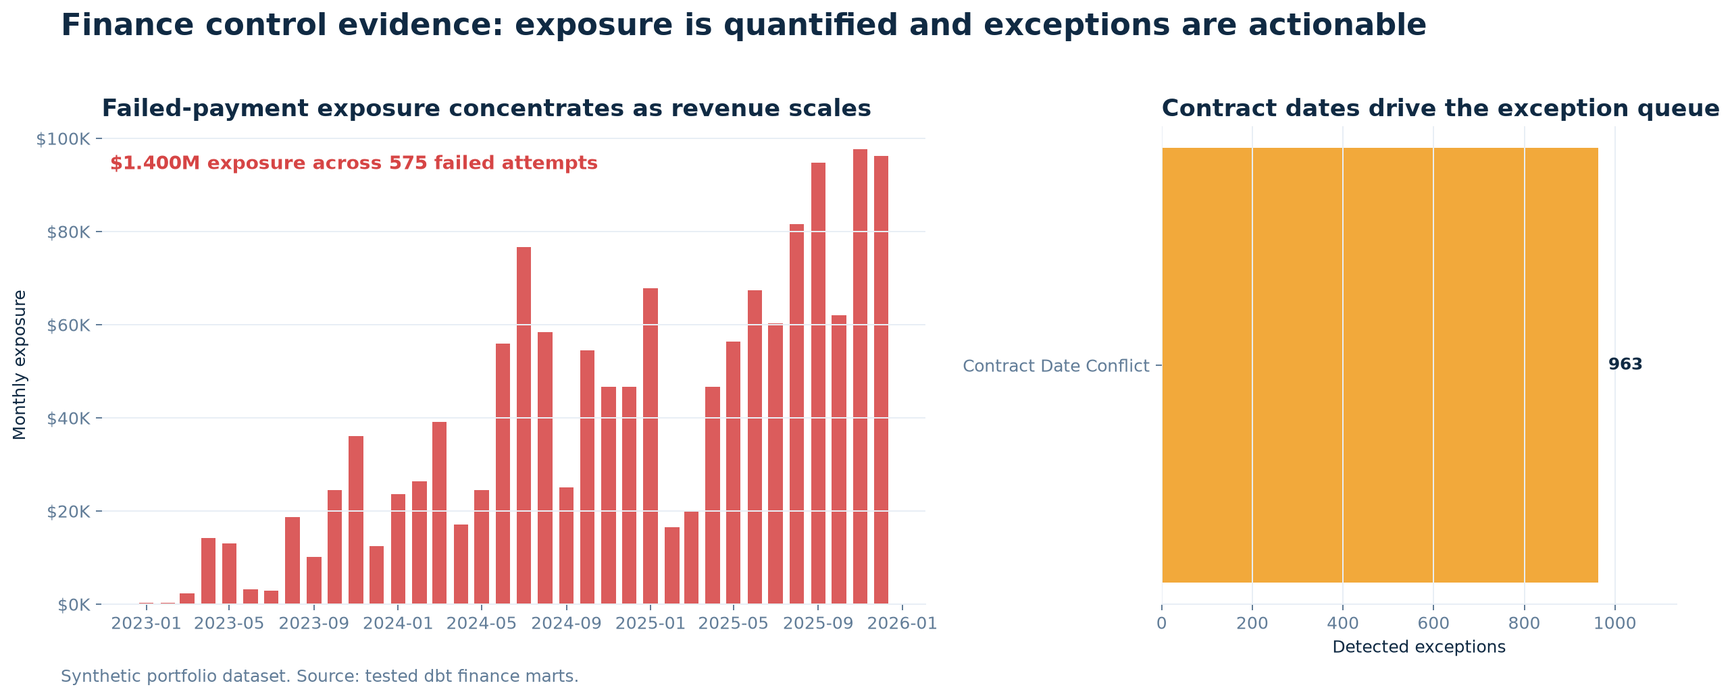
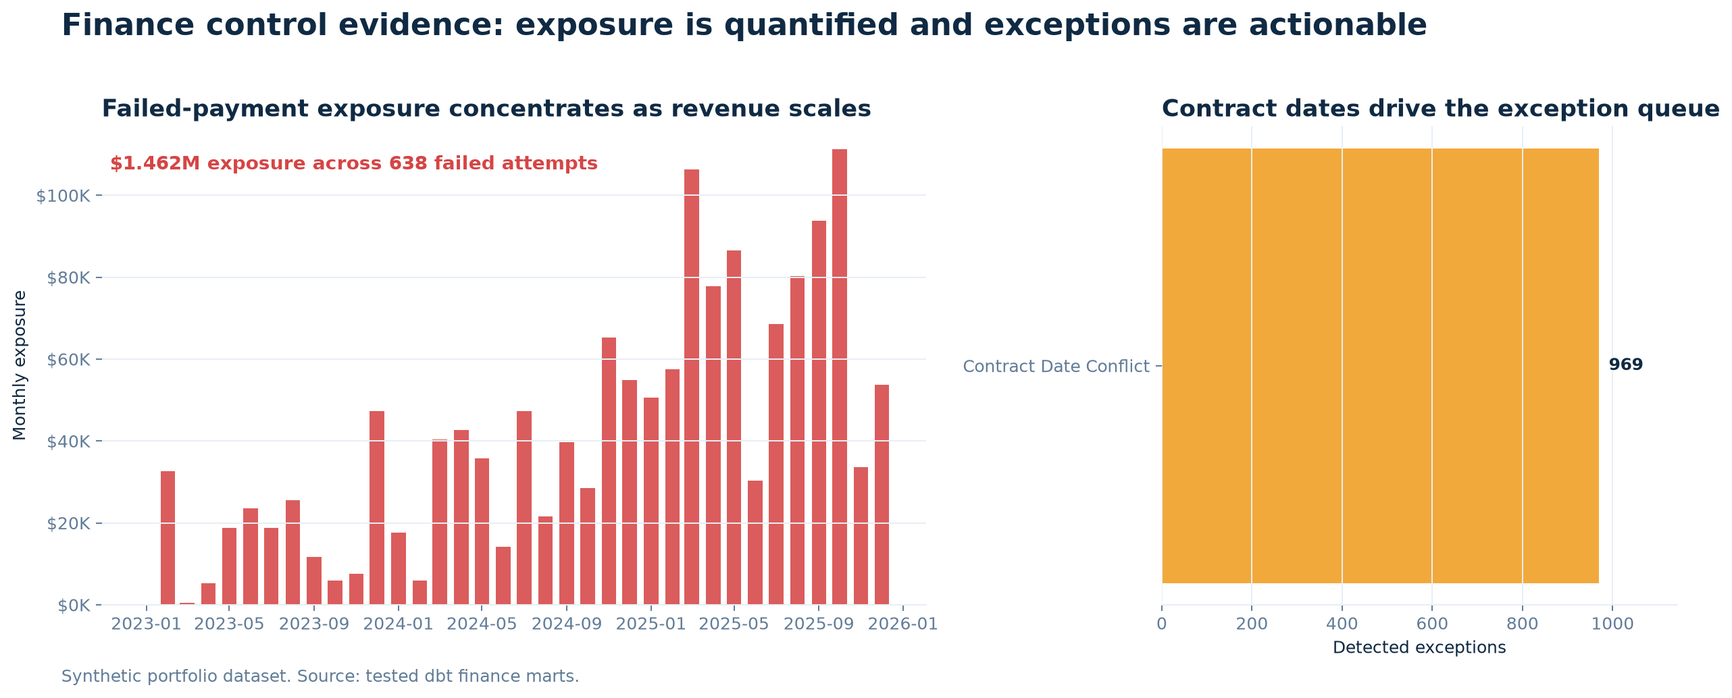
Remove synthetic outcome leakage

diff --git a/src/generation/generate.py b/src/generation/generate.py
@@ -105,6 +105,12 @@ def generate(config_path: Path, output: Path) -> dict[str, int]:
         [],
         [],
     )
+    # Ex-ante latent account characteristics are shared causes of observed behavior
+    # and later cancellation. Predictors never read the realized churn outcome.
+    risk_rng = np.random.default_rng(int(cfg["seed"]) + 17)
+    account_friction = risk_rng.normal(0, 1, n)
+    account_engagement = risk_rng.normal(0, 1, n)
+    account_payment_risk = risk_rng.normal(0, 1, n)
     usage_profiles = []
     for i, acc in accounts.iterrows():
         aid = acc.account_id
@@ -116,7 +122,20 @@ def generate(config_path: Path, output: Path) -> dict[str, int]:
         trial_start = pd.Timestamp(acc.created_date)
         converted = rng.random() > 0.16
         start_date = trial_start + pd.offsets.Day(14)
-        churn_prob = 0.24 if acc.segment == "SMB" else 0.14 if acc.segment == "Mid-Market" else 0.09
+        base_logit = (
+            -1.15
+            if acc.segment == "SMB"
+            else -1.75
+            if acc.segment == "Mid-Market"
+            else -2.20
+        )
+        churn_logit = (
+            base_logit
+            + 0.80 * account_friction[i]
+            - 0.70 * account_engagement[i]
+            + 0.55 * account_payment_risk[i]
+        )
+        churn_prob = float(1 / (1 + np.exp(-churn_logit)))
         churned = converted and rng.random() < churn_prob
         max_end = min(end, start_date + pd.DateOffset(months=int(rng.integers(5, 33))))
         if max_end < start_date:
@@ -357,13 +376,8 @@ def generate(config_path: Path, output: Path) -> dict[str, int]:
     )
 
     snapshot_rows = []
-    # Churn features are noisy observations of an unobserved account state. They are
-    # intentionally not generated from the future label. This prevents the near
-    # deterministic target encoding that made the original synthetic model trivial.
-    eventual_churn = subscriptions.status.eq("canceled").to_numpy(dtype=float)
-    account_friction = rng.normal(0, 1, n) + 0.65 * eventual_churn
-    account_engagement = rng.normal(0, 1, n) - 0.50 * eventual_churn
-    account_payment_risk = rng.normal(0, 1, n) + 0.45 * eventual_churn
+    # Churn features are noisy observations of the ex-ante latent account state.
+    churn_rng = np.random.default_rng(int(cfg["seed"]) + 29)
     split_months = pd.date_range("2023-03-31", "2025-09-30", freq="3ME")
     for i, sub in subscriptions.iterrows():
         account = accounts.iloc[i]
@@ -376,32 +390,42 @@ def generate(config_path: Path, output: Path) -> dict[str, int]:
                 and snapshot < churn_date
                 and churn_date <= snapshot + pd.offsets.Day(90)
             )
-            days_to_churn = (churn_date - snapshot).days if pd.notna(churn_date) else 9999
-            # Operational signals arrive late and strengthen only near an observed
-            # cancellation. A 2025 product change creates a future condition that
-            # weakens the historical usage and adoption relationships.
-            warning = max(0.0, 1.0 - days_to_churn / 75.0) if 0 < days_to_churn <= 120 else 0.0
+            # Snapshot-local operational pressure is generated from the ex-ante
+            # account state plus fresh noise. It never reads cancellation timing.
             future_regime = snapshot >= pd.Timestamp("2025-01-01")
             signal_strength = 0.80 if future_regime else 1.0
             friction = account_friction[i]
             engagement = account_engagement[i]
             payment_risk = account_payment_risk[i]
+            operational_pressure = max(
+                0.0,
+                0.35 * friction - 0.25 * engagement + churn_rng.normal(0, 0.40),
+            )
             observed_label = true_future_churn
             # Labels reflect delayed CRM updates and occasional unrecorded churn.
-            if observed_label and rng.random() < (0.14 if future_regime else 0.09):
+            if observed_label and churn_rng.random() < (0.14 if future_regime else 0.09):
                 observed_label = 0
-            elif not observed_label and rng.random() < (0.002 if future_regime else 0.001):
+            elif not observed_label and churn_rng.random() < (
+                0.002 if future_regime else 0.001
+            ):
                 observed_label = 1
-            usage_change = rng.normal(
-                -0.025 - 0.07 * engagement - 0.78 * warning * signal_strength,
+            usage_change = churn_rng.normal(
+                -0.025
+                - 0.15 * engagement
+                - 0.25 * operational_pressure * signal_strength,
                 0.30 + 0.05 * future_regime,
             )
             adoption = np.clip(
-                rng.beta(3, 2) + 0.055 * engagement - 0.43 * warning * signal_strength,
+                churn_rng.beta(3, 2)
+                + 0.12 * engagement
+                - 0.15 * operational_pressure * signal_strength,
                 0,
                 1,
             )
-            recency = rng.gamma(2.0, max(2.0, 6.0 + 1.4 * friction + 6.0 * warning))
+            recency = churn_rng.gamma(
+                2.0,
+                max(2.0, 6.0 + 2.5 * friction + 2.0 * operational_pressure),
+            )
             snapshot_rows.append(
                 {
                     "account_id": sub.account_id,
@@ -409,14 +433,18 @@ def generate(config_path: Path, output: Path) -> dict[str, int]:
                     "usage_change_30d": round(float(usage_change), 4),
                     "feature_adoption_rate": round(float(adoption), 4),
                     "support_tickets_90d": int(
-                        rng.poisson(max(0.1, 1.5 + 0.35 * friction + 2.0 * warning))
+                        churn_rng.poisson(
+                            max(0.1, 1.5 + 0.60 * friction + 0.9 * operational_pressure)
+                        )
                     ),
                     "failed_payments_90d": int(
-                        rng.binomial(
+                        churn_rng.binomial(
                             2,
                             float(
                                 np.clip(
-                                    0.045 + 0.025 * payment_risk + 0.23 * warning,
+                                    0.045
+                                    + 0.055 * payment_risk
+                                    + 0.07 * operational_pressure,
                                     0.005,
                                     0.35,
                                 )
@@ -432,7 +460,9 @@ def generate(config_path: Path, output: Path) -> dict[str, int]:
                     "seats": sub.seats,
                     "engagement_recency_days": round(float(recency), 2),
                     "prior_downgrades": int(
-                        rng.binomial(2, float(np.clip(0.07 + 0.035 * friction, 0.01, 0.25)))
+                        churn_rng.binomial(
+                            2, float(np.clip(0.07 + 0.035 * friction, 0.01, 0.25))
+                        )
                     ),
                     "mrr": sub.initial_mrr,
                     "plan_type": sub.contract_type,
@@ -452,7 +482,9 @@ def generate(config_path: Path, output: Path) -> dict[str, int]:
     ]
     for column in delayed_columns:
         missing_rate = 0.06 if column != "failed_payments_90d" else 0.035
-        churn_snapshots.loc[rng.random(len(churn_snapshots)) < missing_rate, column] = np.nan
+        churn_snapshots.loc[
+            churn_rng.random(len(churn_snapshots)) < missing_rate, column
+        ] = np.nan
 
     tables = {
         "dim_geography": geo,

diff --git a/src/analytics/export_survival_input.py b/src/analytics/export_survival_input.py
@@ -8,19 +8,31 @@ from pathlib import Path
 import duckdb
 
 QUERY = """
-with payment_flags as (
-  select i.account_id, max(case when p.status = 'failed' then 1 else 0 end) failed_payment
-  from raw.fact_invoices i
+with spells as (
+  select *, coalesce(cast(end_date as date), date '2025-12-31') spell_end
+  from raw.fact_subscriptions
+  where start_date is not null
+), payment_flags as (
+  select s.account_id, max(case when p.status = 'failed' then 1 else 0 end) failed_payment
+  from spells s
+  join raw.fact_invoices i on i.account_id = s.account_id
   join raw.fact_payments p using(invoice_id)
-  group by 1
+  where cast(i.invoice_date as date) <= s.spell_end
+  group by s.account_id
 ), support_flags as (
-  select account_id, max(case when escalated then 1 else 0 end) support_escalation
-  from raw.fact_support_tickets group by 1
+  select s.account_id, max(case when t.escalated then 1 else 0 end) support_escalation
+  from spells s
+  join raw.fact_support_tickets t on t.account_id = s.account_id
+  where cast(t.created_at as date) <= s.spell_end
+  group by s.account_id
 ), health_flags as (
-  select account_id,
-         max(case when feature_adoption_rate < 0.40 or days_since_last_activity > 30
+  select s.account_id,
+         max(case when h.feature_adoption_rate < 0.40 or h.days_since_last_activity > 30
                   then 1 else 0 end) usage_decline
-  from raw.fact_customer_health group by 1
+  from spells s
+  join raw.fact_customer_health h on h.account_id = s.account_id
+  where cast(h.snapshot_date as date) <= s.spell_end
+  group by s.account_id
 )
 select s.account_id,
        greatest(1, date_diff('month', cast(s.start_date as date),
@@ -30,11 +42,10 @@ select s.account_id,
        coalesce(h.usage_decline, 0) usage_decline,
        coalesce(p.failed_payment, 0) failed_payment,
        coalesce(t.support_escalation, 0) support_escalation
-from raw.fact_subscriptions s
+from spells s
 left join health_flags h using(account_id)
 left join payment_flags p using(account_id)
 left join support_flags t using(account_id)
-where s.start_date is not null
 order by s.account_id
 """
 

diff --git a/README.md b/README.md
@@ -31,17 +31,17 @@ flowchart LR
 
 | Verified result | Evidence |
 |---|---:|
-| Source and modeling records | **695,036** |
+| Source and modeling records | **693,805** |
 | Product-usage events | **600,000** |
 | Customer accounts | **1,200** |
-| December 2025 MRR | **$2.282M** |
-| December 2025 ARR | **$27.387M** |
+| December 2025 MRR | **$1.915M** |
+| December 2025 ARR | **$22.977M** |
 | Maximum MRR bridge variance | **$0.00** |
-| Failed-payment exposure | **$1.400M across 575 attempts** |
-| Finance exceptions detected | **963 contract-date conflicts** |
+| Failed-payment exposure | **$1.462M across 638 attempts** |
+| Finance exceptions detected | **969 contract-date conflicts** |
 | dbt validation | **36 models, 71 tests, 104/104 resources passed** |
 | Source contracts | **23/23 tables passed** |
-| Churn baseline, future holdout | **0.710 ROC-AUC, 0.058 PR-AUC** |
+| Churn baseline, future holdout | **0.633 ROC-AUC, 0.031 PR-AUC** |
 
 ![Verified revenue trend and December MRR movement bridge](assets/readme/revenue_movement.png)
 
@@ -69,15 +69,15 @@ make pipeline
 
 ## The business story
 
-The fictional company grows MRR steadily through most of the 36-month observation window. In December 2025, $189K of churned MRR overwhelms $45K of new MRR and $27K of expansion, producing negative $124K net new MRR. The movement model reconciles opening MRR to closing MRR with no unexplained variance.
+The fictional company grows MRR steadily through most of the 36-month observation window. In December 2025, $335K of churned MRR overwhelms $61K of new MRR and $17K of expansion, producing negative $260K net new MRR. The movement model reconciles opening MRR to closing MRR with no unexplained variance.
 
 This changes the executive question from “Did revenue decline?” to “Which customer segments, product relationships, and operational failures created the decline, and which teams own the response?”
 
-The finance control layer then separates commercial performance from collection and data-quality problems. It quantifies $1.400M of failed-payment exposure and places 963 contract-date conflicts into an exception queue with invoice-level traceability.
+The finance control layer then separates commercial performance from collection and data-quality problems. It quantifies $1.462M of failed-payment exposure and places 969 contract-date conflicts into an exception queue with invoice-level traceability.
 
 ![Failed-payment exposure and finance exception evidence](assets/readme/finance_controls.png)
 
-The predictive layer uses time-aware train, calibration, and future-test periods. The generator now includes latent account variation, weaker individual predictors, missing and delayed observations, temporal drift, and label noise. The calibrated logistic baseline reaches 0.710 ROC-AUC on an unseen future period. That credible result is more useful for error analysis than the earlier near-perfect synthetic score. Rolling forecast backtests show that total MRR and cash are comparatively stable, while churned MRR is highly intermittent and harder to forecast.
+The predictive layer uses time-aware train, calibration, and future-test periods. Ex-ante latent account characteristics generate both noisy observed behavior and later cancellation; predictors never read the realized outcome or cancellation timing. Missing and delayed observations, temporal drift, and label noise further weaken the signal. The calibrated logistic baseline reaches 0.633 ROC-AUC on an unseen future period. Rolling forecast backtests show that total MRR and cash are comparatively stable, while churned MRR is highly intermittent and harder to forecast.
 
 ![Churn validation and rolling forecast backtests](assets/readme/model_validation.png)
 
@@ -113,9 +113,9 @@ This repository contains executable evidence for the critical business logic:
 | Failed-payment exposure | [`assert_failed_payment_exposure_quantified.sql`](dbt/tests/assert_failed_payment_exposure_quantified.sql) | Nonzero exposure required when failed attempts exist |
 | Leakage-safe churn modeling | [`src/modeling/churn.py`](src/modeling/churn.py) | Time splits, calibration, lift, Brier score, and threshold economics |
 | Rolling forecast backtests | [`src/modeling/forecast.py`](src/modeling/forecast.py) | Naive, seasonal-naive, and drift candidates compared |
-| Distributed-event path | [`spark/process_usage_events.py`](spark/process_usage_events.py) | 600,000 events processed in 6.807 seconds into 36 partitions |
+| Distributed-event path | [`spark/process_usage_events.py`](spark/process_usage_events.py) | 600,000 events processed in 5.984 seconds into 36 partitions |
 | Hive compatibility | [`spark/validate_hive_table.py`](spark/validate_hive_table.py) | DDL loaded in Spark Hive support; 600,000 events reconciled |
-| R survival analysis | [`r/survival_analysis.R`](r/survival_analysis.R) | 997 spells, 173 events; Kaplan-Meier output matches Python within 5.56e-16 |
+| R survival analysis | [`r/survival_analysis.R`](r/survival_analysis.R) | 1,004 spells, 248 events; Kaplan-Meier output matches Python within 4.45e-16 |
 | Orchestration | [`airflow/dags/subscription_intelligence.py`](airflow/dags/subscription_intelligence.py) | Local Airflow 2.11.2 DAG test completed successfully |
 | BI semantic design | [`powerbi/semantic_model.md`](powerbi/semantic_model.md) | 39 explicit DAX measures and QA checklist |
 | README evidence charts | [`scripts/generate_readme_visuals.py`](scripts/generate_readme_visuals.py) | Regenerated from tested exports and model artifacts |
@@ -245,16 +245,16 @@ make airflow-test
 | MRR bridge | **$0.00 maximum variance** |
 | Source contracts | **23/23 source tables passed** |
 | Git whitespace and repository hygiene | **Passed** |
-| Spark runtime | **600,000 events processed in 6.807 seconds on local[*]** |
+| Spark runtime | **600,000 events processed in 5.984 seconds on local[*]** |
 | Hive-compatible DDL | **36 partitions and 600,000 events reconciled** |
-| R runtime | **997 spells and 173 churn events; cross-check passed** |
+| R runtime | **1,004 spells and 248 churn events; cross-check passed** |
 | Airflow runtime | **DAG test completed successfully in Airflow 2.11.2** |
 | Native Power BI QA | Requires Power BI Desktop |
 
 ## Recommendations from the synthetic evidence
 
-1. Correct contract lifecycle rules behind the 963 date conflicts before relying on renewal and recognition reporting.
-2. Operationalize failed-payment recovery for the 575 attempts representing $1.400M of exposure.
+1. Correct contract lifecycle rules behind the 969 date conflicts before relying on renewal and recognition reporting.
+2. Operationalize failed-payment recovery for the 638 attempts representing $1.462M of exposure.
 3. Pilot a constrained retention queue using the cost-selected logistic threshold, then measure incremental renewal through a controlled experiment.
 4. Investigate the December churn cohort by segment, plan, acquisition channel, support burden, and adoption decline.
 5. Require executive metrics to pass the dbt reconciliation layer before Power BI refresh.

diff --git a/reports/technical_report.md b/reports/technical_report.md
@@ -8,12 +8,12 @@ Python generates and validates deterministic source records. DuckDB provides the
 
 | Evidence | Value |
 |---|---|
-| Git state | Initial repository, uncommitted implementation |
+| Git state | Working tree at verification; the resulting commit is recorded in public repository history |
[1 lines of base64/hex data omitted]
 | Observation window | 2023-01-01 through 2025-12-31 |
 | Runtime | Python 3.13.14, DuckDB 1.5.5, dbt Core 1.12.3, dbt-duckdb 1.11.0 |
 | Host | Apple arm64 macOS, 10 logical CPUs, 16 GiB memory |
-| Scale | 695,036 source and modeling rows; 600,000-event CSV is 33,944,800 bytes |
+| Scale | 693,805 source and modeling rows; 600,000-event CSV is 33,944,898 bytes |
 
 ## Transformation and quality evidence
 
@@ -21,23 +21,23 @@ Source contracts passed for all 23 files, including schemas, keys, date ordering
 
 ## Revenue and finance validation
 
-The 36-month MRR bridge enforces `closing = opening + new + expansion + reactivation - contraction - churn`. Maximum absolute variance is $0.00. The finance exception mart detects 963 contract-date conflicts. Failed-payment exposure totals $1,400,498.67 across 575 attempts. These conditions are generated simulation evidence, not real accounting errors or losses.
+The 36-month MRR bridge enforces `closing = opening + new + expansion + reactivation - contraction - churn`. Maximum absolute variance is $0.00. The finance exception mart detects 969 contract-date conflicts. Failed-payment exposure totals $1,461,681.54 across 638 attempts. These conditions are generated simulation evidence, not real accounting errors or losses.
 
 ## Churn modeling
 
-The modeling contract is one account snapshot per as-of date with a 90-day future churn label. Identifiers and post-outcome fields are excluded. The generator introduces latent account variation, missing and delayed observations, weaker predictors, temporal drift, label noise, and unseen future conditions. Splits contain 2,122 training, 1,587 calibration, and 3,057 future test rows. Calibrated logistic regression reaches 0.710 ROC-AUC, 0.058 PR-AUC, and 0.014 Brier score. The boosting challenger reaches 0.693 ROC-AUC and 0.044 PR-AUC. Economics assume a $35 contact cost, $6,000 retained margin, and 18% intervention success. The modest precision reflects the low event rate and is disclosed rather than hidden.
+The modeling contract is one account snapshot per as-of date with a 90-day future churn label. Identifiers and post-outcome fields are excluded. Ex-ante latent account characteristics generate both behavior and later cancellation, so predictors never read the realized future outcome or cancellation timing. The generator also introduces missing and delayed observations, temporal drift, label noise, and unseen future conditions. Splits contain 2,122 training, 1,587 calibration, and 3,057 future test rows. Calibrated logistic regression reaches 0.633 ROC-AUC, 0.031 PR-AUC, and 0.019 Brier score. The boosting challenger reaches 0.502 ROC-AUC and 0.020 PR-AUC. Economics assume a $35 contact cost, $6,000 retained margin, and 18% intervention success. The modest precision reflects the low event rate and is disclosed rather than hidden.
 
 ## Forecasting and statistical validation
 
-Forecast code compares naive, seasonal-naive, and drift methods with rolling-origin backtesting, then labels forecasts and scenarios separately. R analyzed 997 customer spells with 173 churn events and produced Cox concordance of 0.6391. Its 54 Kaplan-Meier estimates matched the independent Python calculation within `5.56e-16`.
+Forecast code compares naive, seasonal-naive, and drift methods with rolling-origin backtesting, then labels forecasts and scenarios separately. R analyzed 1,004 customer spells with 248 churn events and produced Cox concordance of 0.6246. Payment, support, and health covariates are restricted to records on or before each spell's event or censor date. Its 57 Kaplan-Meier estimates matched the independent Python calculation within `4.45e-16`.
 
 ## Spark and orchestration
 
-PySpark 3.5.9 processed the 600,000-event CSV in 6.807 seconds using `local[*]`, produced 481,956 account-day rows across 36 year/month partitions, and reconciled the event total through the included Hive-compatible DDL. Airflow 2.11.2 successfully executed a local `dags test` across generation, validation, Spark, load, dbt, analytics, export, and monitoring. This is local runtime evidence, not a production scheduler or big-data performance claim.
+PySpark 3.5.9 processed the 600,000-event CSV in 5.984 seconds using `local[*]`, produced 481,716 account-day rows across 36 year/month partitions, and reconciled the event total through the included Hive-compatible DDL. Airflow 2.11.2 successfully executed a local `dags test` across generation, validation, Spark, load, dbt, analytics, export, and monitoring. This is local runtime evidence, not a production scheduler or big-data performance claim.
 
 ## BI verification
 
-Eight BI-ready extracts were generated, including 18,526 MRR movement rows, 17,668 billing-reconciliation rows, 963 finance-exception rows, and a 36-month forecast input. The repository includes an eight-page Power BI design, semantic model, 39-measure DAX library, and QA checklist. Power BI Desktop is unavailable on macOS, so native refresh, interactions, accessibility, screenshots, and `.pbix` delivery remain unverified. No screenshot or native report is fabricated.
+Eight BI-ready extracts were generated, including 18,596 MRR movement rows, 17,348 billing-reconciliation rows, 969 finance-exception rows, and a 36-month forecast input. The repository includes an eight-page Power BI design, semantic model, 39-measure DAX library, and QA checklist. Power BI Desktop is unavailable on macOS, so native refresh, interactions, accessibility, screenshots, and `.pbix` delivery remain unverified. No screenshot or native report is fabricated.
 
 ## Residual limitations
 

diff --git a/reports/executive_summary.md b/reports/executive_summary.md
@@ -9,22 +9,22 @@ This platform analyzes a deterministic synthetic B2B SaaS dataset to explain rec
[1 lines of base64/hex data omitted]
 - Observation window: January 2023 through December 2025
 - Customer accounts: 1,200
-- Total source and modeling records: 695,036
-- Product events: 600,000 rows, 33,944,800 CSV bytes
+- Total source and modeling records: 693,805
+- Product events: 600,000 rows, 33,944,898 CSV bytes
 - Reporting currency: USD presentation, synthetic local-currency codes preserved without claiming audited FX treatment
 - dbt status: 36 models, 71 data tests, 104 total resources passed
 
 ## Evidence-backed findings
 
-1. December 2025 closes at $2.282 million synthetic MRR and $27.387 million synthetic ARR. Net new MRR is negative $123,992, GRR is 91.87%, and NRR is 92.98%.
+1. December 2025 closes at $1.915 million synthetic MRR and $22.977 million synthetic ARR. Net new MRR is negative $259,564, GRR is 84.45%, and NRR is 85.25%.
 2. The MRR movement bridge reconciles to a maximum absolute difference of $0.00 across 36 months.
-3. Finance rules detect 963 contract-date conflicts and quantify $1,400,498.67 of failed-payment exposure across 575 synthetic attempts.
-4. The calibrated logistic model reaches 0.710 ROC-AUC, 0.058 PR-AUC, and 0.014 Brier score on an unseen future holdout after adding behavior noise, missingness, temporal drift, and label noise.
+3. Finance rules detect 969 contract-date conflicts and quantify $1,461,681.54 of failed-payment exposure across 638 synthetic attempts.
+4. The calibrated logistic model reaches 0.633 ROC-AUC, 0.031 PR-AUC, and 0.019 Brier score on an unseen future holdout. Ex-ante latent characteristics generate both behavior and later churn, without reading the realized outcome or cancellation timing into predictors.
 
 ## Prioritized recommendations
 
-1. **Contract controls:** Correct the lifecycle rules that create 963 date conflicts. Focus first on canceled and annual subscriptions. Difficulty is medium because source-state and effective-date ownership must be clarified. Monitor exception count and aging.
-2. **Payment recovery:** Create an operational queue for 575 failed attempts representing $1.400 million of synthetic exposure. Difficulty is low to medium. Monitor recovery rate, recovered cash, and days outstanding.
+1. **Contract controls:** Correct the lifecycle rules that create 969 date conflicts. Focus first on canceled and annual subscriptions. Difficulty is medium because source-state and effective-date ownership must be clarified. Monitor exception count and aging.
+2. **Payment recovery:** Create an operational queue for 638 failed attempts representing $1.462 million of synthetic exposure. Difficulty is low to medium. Monitor recovery rate, recovered cash, and days outstanding.
 3. **Retention triage:** Pilot a tightly capacity-controlled review rather than contacting every low-threshold account. Modeled economics assume a $35 contact cost, $6,000 retained margin if successful, and 18% success probability. Difficulty is medium. Monitor precision, incremental renewal through a controlled experiment, and calibration drift.
 4. **Closing-month churn review:** Investigate the synthetic December cohort behind negative net new MRR and 91.87% GRR. Difficulty is medium. Monitor churned MRR, contraction MRR, and NRR by segment and plan.
 5. **Metric governance:** Adopt the dbt metric and test layer as the approval path for executive totals. Difficulty is low. Monitor failed tests, reconciliation differences, freshness, and BI-to-warehouse variances.

diff --git a/reports/runtime_verification.md b/reports/runtime_verification.md
@@ -6,14 +6,14 @@ All results below were measured locally on 2026-08-31 against deterministic synt
 |---|---|
 | Source contracts | 23 source tables passed schema, key, date, range, and relationship validation |
 | dbt | 36 models and 71 data tests; all 104 resources passed with no deprecation warnings |
-| Spark | PySpark 3.5.9 processed 600,000 events in 6.807 seconds using `local[*]` |
-| Parquet and Hive | 481,956 account-day rows, 36 year/month partitions, and 600,000 source events reconciled through the Hive-compatible DDL |
-| R survival | R analyzed 997 customer spells with 173 churn events; Cox concordance was 0.6391 |
-| Independent cross-check | 54 Kaplan-Meier points matched Python within `5.56e-16` |
+| Spark | PySpark 3.5.9 processed 600,000 events in 5.984 seconds using `local[*]` |
+| Parquet and Hive | 481,716 account-day rows, 36 year/month partitions, and 600,000 source events reconciled through the Hive-compatible DDL |
+| R survival | R analyzed 1,004 customer spells with 248 churn events; Cox concordance was 0.6246 |
+| Independent cross-check | 57 Kaplan-Meier points matched Python within `4.45e-16` |
 | Airflow | Airflow 2.11.2 `dags test` completed the generation-to-monitoring graph successfully |
 | Power BI | Not verified; native Power BI Desktop is unavailable on this macOS host |
 
-Spark benchmark context: Python 3.13.14, Apple arm64 macOS, 10 logical CPUs, 16 GiB memory, and a 33,946,959-byte CSV input. This is a local engineering benchmark, not a big-data or cloud-performance claim.
+Spark benchmark context: Python 3.13.14, Apple arm64 macOS, 10 logical CPUs, 16 GiB memory, and a 33,944,898-byte CSV input. This is a local engineering benchmark, not a big-data or cloud-performance claim.
 
 ## Commands
 
